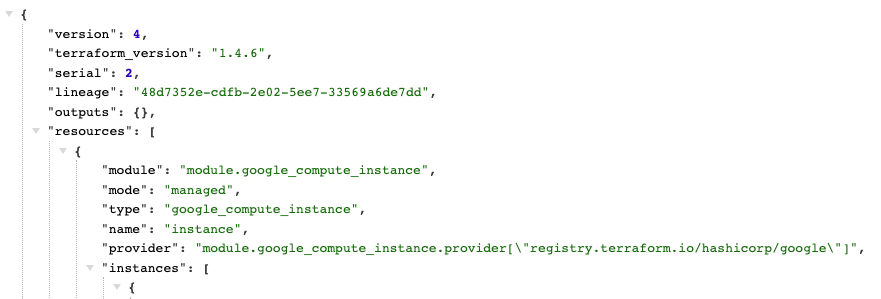
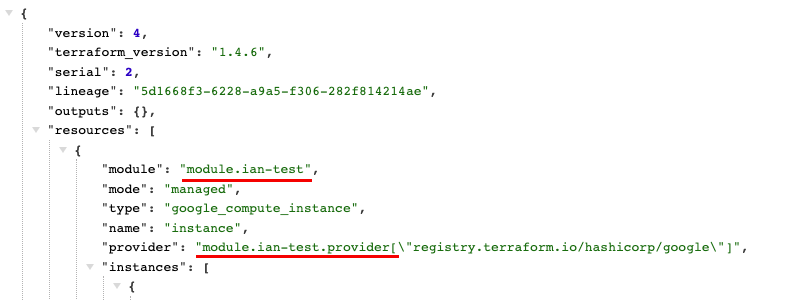
更新內容

diff --git a/README.md b/README.md
@@ -41,7 +41,7 @@ resource "google_compute_instance" "instance" {
           size = 50
     }
   }
-  
+
 .... 其他省略不寫 ....
 }
 ```
@@ -65,7 +65,7 @@ resource "google_compute_instance" "instance" {
         size = 50
     }
   }
-  
+
 .... 其他省略不寫 ....
 }
 ```
@@ -82,9 +82,9 @@ resource "google_compute_instance" "instance" {
   zone         = "asia-east1-b"
 
   labels = {
-    dept = "test"
-    env  = "prod"
-    product = "prod"
+    aaa = "test1"
+    bbb = "test2"
+    ccc = "test3"
   }
 
   boot_disk {
@@ -93,7 +93,7 @@ resource "google_compute_instance" "instance" {
       size = 50
     }
   }
-  
+
 .... 其他省略不寫 ....
 }
 ```
@@ -114,7 +114,6 @@ resource "google_compute_instance" "instance" {
 
 4. module 版本控制：將 Terraform 程式封裝為 module 後，可以使用 git 對其進行版本控制。可以更輕鬆地協作和共享 module (可以將 module 與 Terraform 分別存放，並使用對應 tag or 分支來做開發 )。
 
-
 ### 檔案說明
 
 <br>
@@ -125,7 +124,7 @@ resource "google_compute_instance" "instance" {
 
 <br>
 
- - 架構圖
+- 架構圖
 
 ```
 .
@@ -150,6 +149,7 @@ resource "google_compute_instance" "instance" {
 
 6 directories, 12 files
 ```
+
 module 資料夾：放我們 module 設定 (這邊範例是放 gce)
 
 projects 資料夾：放我們不同服務、不同環境設定 (這邊為了簡化，範例只以不同環境為例)
@@ -168,7 +168,7 @@ resource "google_compute_instance" "instance" {
     name         = var.instance_name
     machine_type = var.machine_type
     zone         = var.instance_zone
-    tags = var.instance_tags   
+    tags = var.instance_tags
     labels = var.instance_labels
 
     boot_disk {
@@ -184,7 +184,7 @@ resource "google_compute_instance" "instance" {
       content {
         device_name = var.attached_disk_name
         mode = var.attached_disk_mode
-        source = var.attached_disk_source         
+        source = var.attached_disk_source
       }
     }
 
@@ -226,7 +226,7 @@ dynamic "attached_disk" {
       content {
         device_name = var.attached_disk_name
         mode = var.attached_disk_mode
-        source = var.attached_disk_source         
+        source = var.attached_disk_source
       }
    }
 ```
@@ -305,7 +305,7 @@ variable "attached_disk_mode" {
   validation {
     condition     = contains(["READ_WRITE", "READ_ONLY"], var.attached_disk_mode)
     error_message = "不符合附加磁碟模式的值，請輸入 READ_WRITE 或 READ_ONLY"
-  }    
+  }
 }
 
 variable "attached_disk_source" {
@@ -383,7 +383,7 @@ variable "attached_disk_mode" {
   validation {
     condition     = contains(["READ_WRITE", "READ_ONLY"], var.attached_disk_mode)
     error_message = "不符合附加磁碟模式的值，請輸入 READ_WRITE 或 READ_ONLY"
-  }    
+  }
 }
 ```
 
@@ -405,9 +405,9 @@ variable "attached_disk_mode" {
 
 ```
 {
-    "dept" : "test1",
-    "env" : "test2",
-    "product" : "test3"
+    "aaa" : "test1",
+    "bbb" : "test2",
+    "ccc" : "test3"
 }
 ```
 
@@ -432,7 +432,7 @@ projects 我這邊只示範 prod 的部分
 - projects/prod/main.tf
 
 ```
-module "google_compute_instance" {
+module "ian-test" {
   source = "../../module/google_compute_instance"
 
   project_id = "馬賽克"
@@ -441,9 +441,9 @@ module "google_compute_instance" {
   instance_zone = "asia-east1-b"
   instance_tags = []
   instance_labels = {
-    "dept" = "test"
-    "env" = "prod"
-    "product" = "prod"
+    "aaa" = "test1"
+    "bbb" = "test2"
+    "ccc" = "test3"
   }
   boot_disk_image_name    = "debian-cloud/debian-10"
   boot_disk_size = "50"
@@ -460,7 +460,7 @@ module "google_compute_instance" {
 
 <br>
 
-這邊我們可以定義要使用 module 的叫什麼，這邊我就取名 google_compute_instance，然後他會去 `source "../../module/google_compute_instance"`，也就是我們剛剛在上面先挖洞的模板，底下就開始帶入我們在 variables.tf 有設定的參數。這邊比較要注意的是，在 main.tf、variables.tf 有使用的變數設定，都必須要寫在個別資源 tf 的檔案裡面，沒有的就帶入對應資料型態的空值，例如 `instance_tags`、`metadata`、`resource_policies` 等等。
+這邊我們可以定義要使用 module 的叫什麼，這邊我就取名 google_compute_instance，然後他會去 `source "../../module/ian-test"`，也就是我們剛剛在上面先挖洞的模板，底下就開始帶入我們在 variables.tf 有設定的參數。這邊比較要注意的是，在 main.tf、variables.tf 有使用的變數設定，都必須要寫在個別資源 tf 的檔案裡面，沒有的就帶入對應資料型態的空值，例如 `instance_tags`、`metadata`、`resource_policies` 等等。
 
 <br>
 
@@ -477,7 +477,6 @@ module "google_compute_instance" {
 <br>
 
 ![圖片](https://raw.githubusercontent.com/880831ian/terraform-module/master/images/1.png)
-
 
 ![圖片](https://raw.githubusercontent.com/880831ian/terraform-module/master/images/2.png)
 
@@ -507,7 +506,6 @@ module "google_compute_instance" {
 
 ![圖片](https://raw.githubusercontent.com/880831ian/terraform-module/master/images/5.png)
 
-
 ![圖片](https://raw.githubusercontent.com/880831ian/terraform-module/master/images/6.png)
 
 <br>
@@ -524,7 +522,6 @@ module "google_compute_instance" {
 
 ![圖片](https://raw.githubusercontent.com/880831ian/terraform-module/master/images/7.png)
 
-
 ![圖片](https://raw.githubusercontent.com/880831ian/terraform-module/master/images/8.png)
 
 <br>
@@ -534,7 +531,6 @@ apply 看到的與 plan 顯示的一樣，使用 module 建立的資料格式會
 <br>
 
 ![圖片](https://raw.githubusercontent.com/880831ian/terraform-module/master/images/9.png)
-
 
 ![圖片](https://raw.githubusercontent.com/880831ian/terraform-module/master/images/10.png)
 
@@ -568,7 +564,7 @@ resource "google_compute_instance" "instance" {
 <br>
 
 ```
-module "google_compute_instance" {
+module "ian-test" {
   source = "../../module/google_compute_instance"
 
   project_id = ""
@@ -594,7 +590,7 @@ module "google_compute_instance" {
 
 <br>
 
-再使用 `terraform import module.google_compute_instance.google_compute_instance.instance [專案 ID]/[機器地區]/[機器名稱]` 來匯入狀態檔案。(這邊要記得依照你 module 設定的名稱帶入)
+再使用 `terraform import module.ian-test.google_compute_instance.instance [專案 ID]/[機器地區]/[機器名稱]` 來匯入狀態檔案。(這邊要記得依照你 module 設定的名稱帶入)
 
 <br>
 
